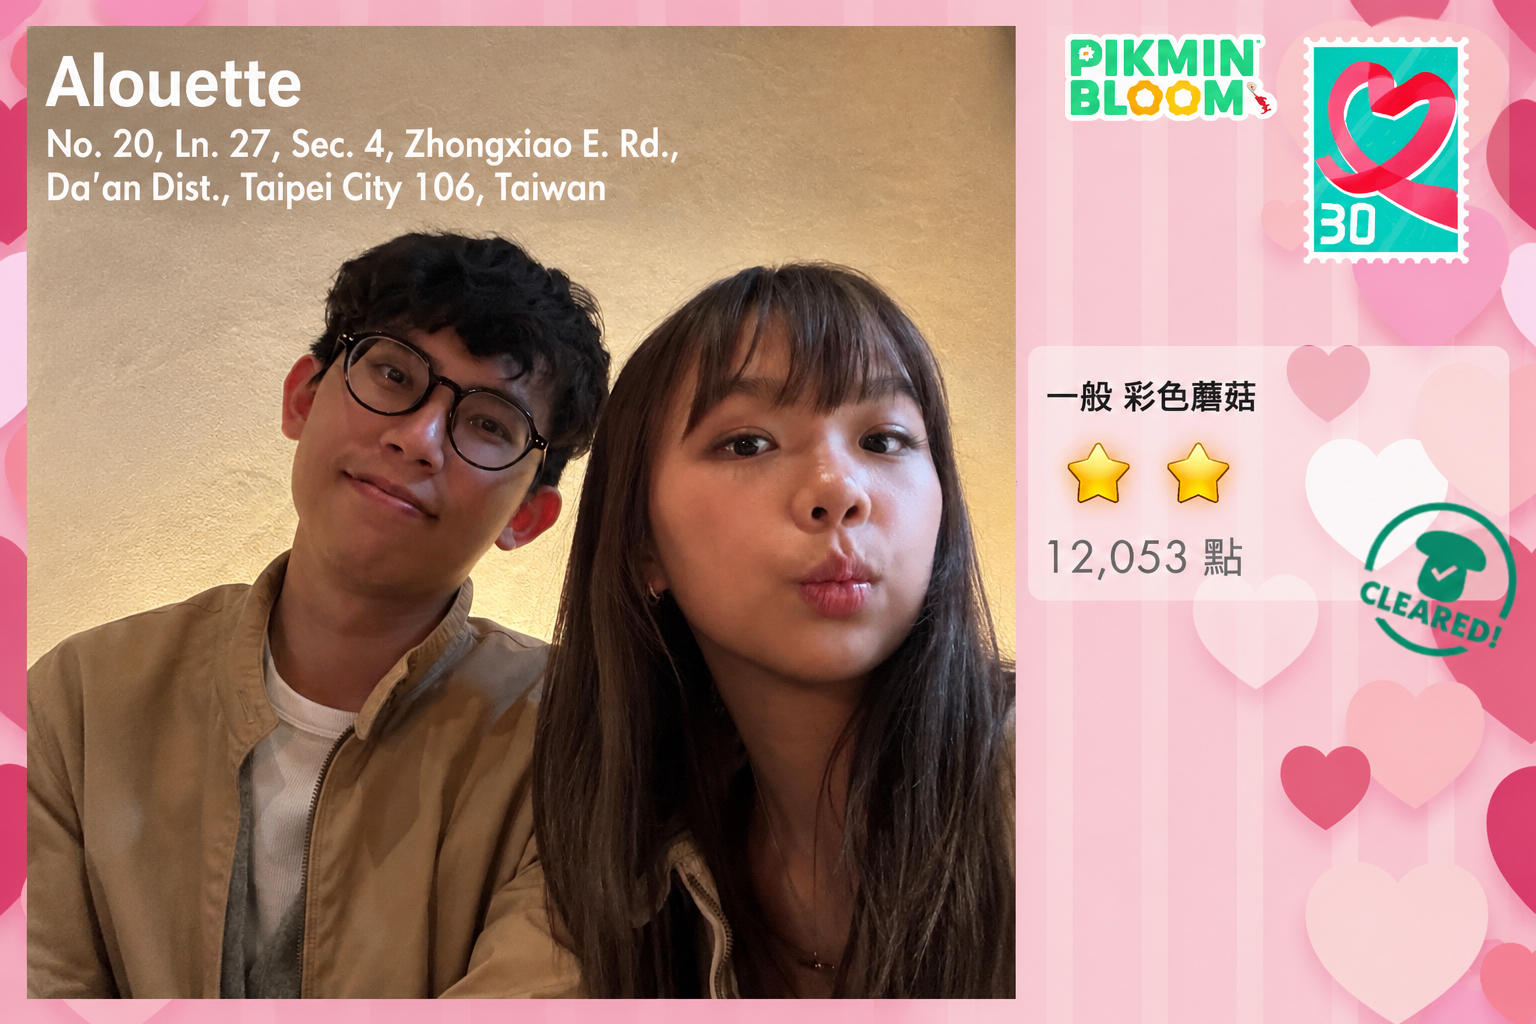
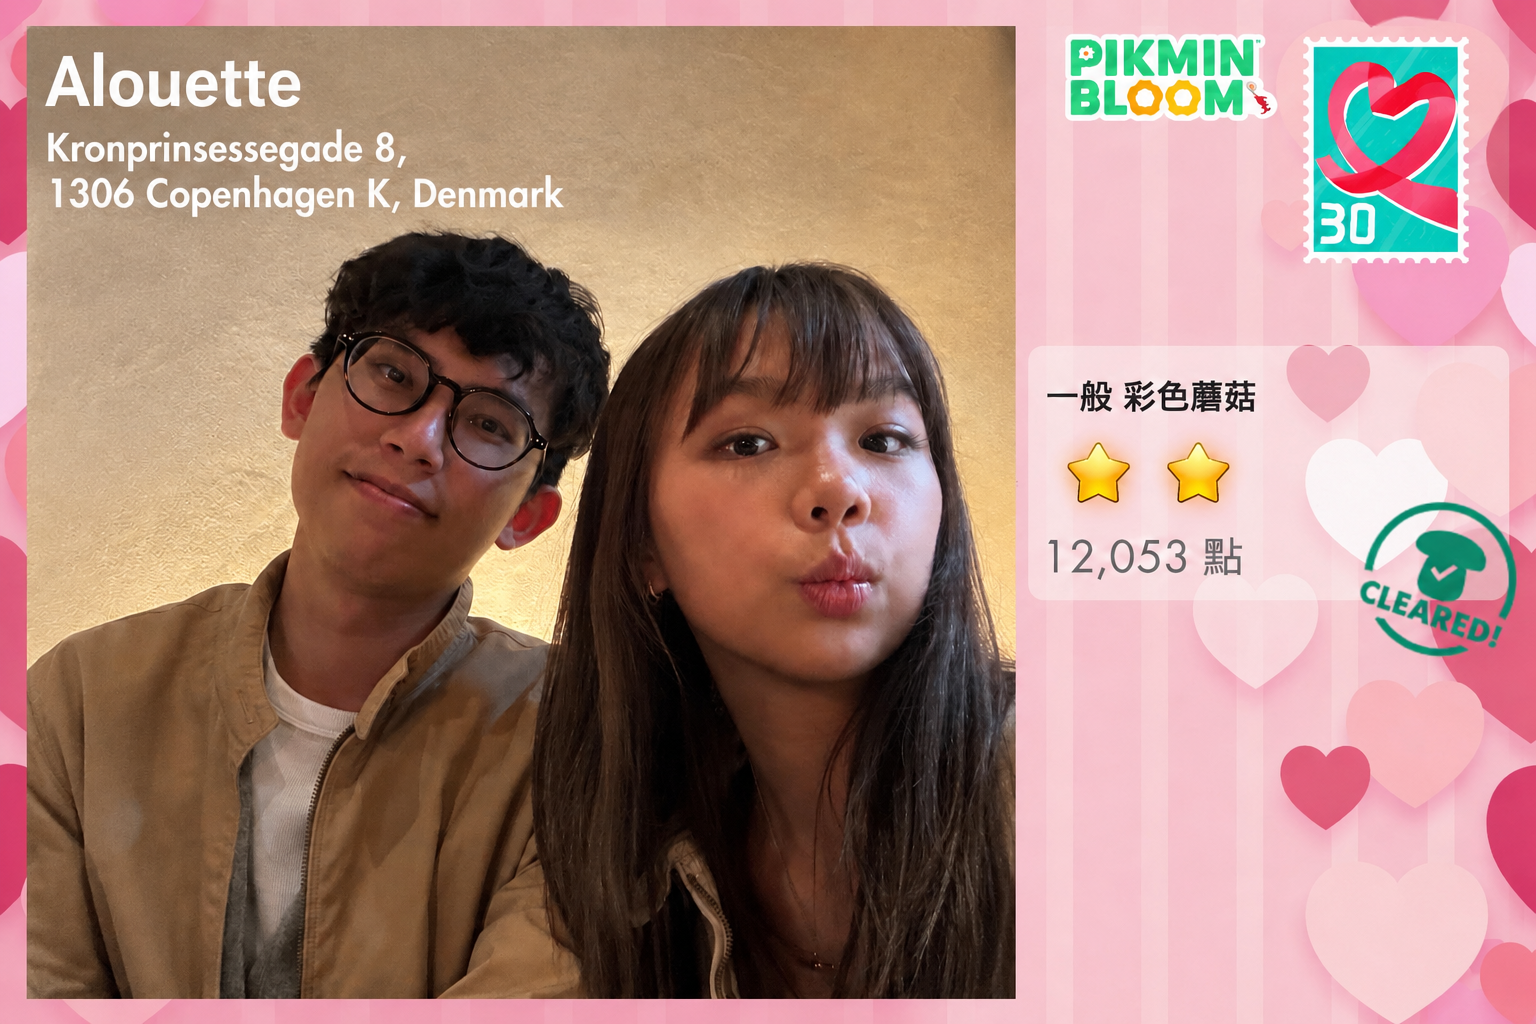
fix: the postcard trigger point and one postcard context

diff --git a/src/components/WalkingTrack.vue b/src/components/WalkingTrack.vue
@@ -160,32 +160,32 @@ onBeforeUnmount(() => {
     <!-- Postcards Placed along the trail -->
     <div class="absolute inset-x-0 top-0 h-full pointer-events-none">
       
-      <!-- Postcard 1 (Left) - Triggered at 15% -->
+      <!-- Postcard 1 (Left) - Positioned at 15% -->
       <div class="absolute top-[15%] left-4 right-4 md:left-24 md:right-auto md:w-96 pointer-events-auto">
         <PostcardItem :index="0" side="left" />
       </div>
 
-      <!-- Postcard 2 (Right) - Triggered at 29% -->
+      <!-- Postcard 2 (Right) - Positioned at 29% -->
       <div class="absolute top-[29%] left-4 right-4 md:right-24 md:left-auto md:w-96 pointer-events-auto">
         <PostcardItem :index="1" side="right" />
       </div>
 
-      <!-- Postcard 3 (Left) - Triggered at 43% -->
+      <!-- Postcard 3 (Left) - Positioned at 43% -->
       <div class="absolute top-[43%] left-4 right-4 md:left-24 md:right-auto md:w-96 pointer-events-auto">
         <PostcardItem :index="2" side="left" />
       </div>
 
-      <!-- Postcard 4 (Right) - Triggered at 57% -->
+      <!-- Postcard 4 (Right) - Positioned at 57% -->
       <div class="absolute top-[57%] left-4 right-4 md:right-24 md:left-auto md:w-96 pointer-events-auto">
         <PostcardItem :index="3" side="right" />
       </div>
 
-      <!-- Postcard 5 (Left) - Triggered at 71% -->
+      <!-- Postcard 5 (Left) - Positioned at 71% -->
       <div class="absolute top-[71%] left-4 right-4 md:left-24 md:right-auto md:w-96 pointer-events-auto">
         <PostcardItem :index="4" side="left" />
       </div>
 
-      <!-- Postcard 6 (Right) - Triggered at 85% -->
+      <!-- Postcard 6 (Right) - Positioned at 85% -->
       <div class="absolute top-[85%] left-4 right-4 md:right-24 md:left-auto md:w-96 pointer-events-auto">
         <PostcardItem :index="5" side="right" />
       </div>

diff --git a/src/store/game.test.ts b/src/store/game.test.ts
@@ -37,20 +37,20 @@ describe('Game State Store', () => {
   })
 
   it('should unlock postcards when checkpoints are crossed', () => {
-    // Before checkpoint 0 (15%)
-    updateScrollProgress(14)
+    // Before postcard 0 reaches the middle of the viewport
+    updateScrollProgress(6.24)
     expect(gameState.unlockedPostcards).toEqual([])
 
-    // Cross checkpoint 0 (15%)
-    updateScrollProgress(15)
+    // Postcard 0 reaches the middle of the viewport
+    updateScrollProgress(6.25)
     expect(gameState.unlockedPostcards).toEqual([0])
 
     // Re-verify that crossing it again does not duplicate the unlock
     updateScrollProgress(20)
     expect(gameState.unlockedPostcards).toEqual([0])
 
-    // Cross checkpoint 1 (29%)
-    updateScrollProgress(29)
+    // Postcard 1 reaches the middle of the viewport
+    updateScrollProgress(23.75)
     expect(gameState.unlockedPostcards).toEqual([0, 1])
 
     // Cross all checkpoints

diff --git a/src/store/game.ts b/src/store/game.ts
@@ -1,6 +1,8 @@
 import { reactive } from 'vue'
 
-export const CHECKPOINTS = [15, 29, 43, 57, 71, 85]
+// The trail is 500vh tall with 400vh of scrollable distance. These progress
+// values correspond to each postcard reaching the middle of the viewport.
+export const CHECKPOINTS = [6.25, 23.75, 41.25, 58.75, 76.25, 93.75]
 
 export const gameState = reactive({
   hasStarted: false,
